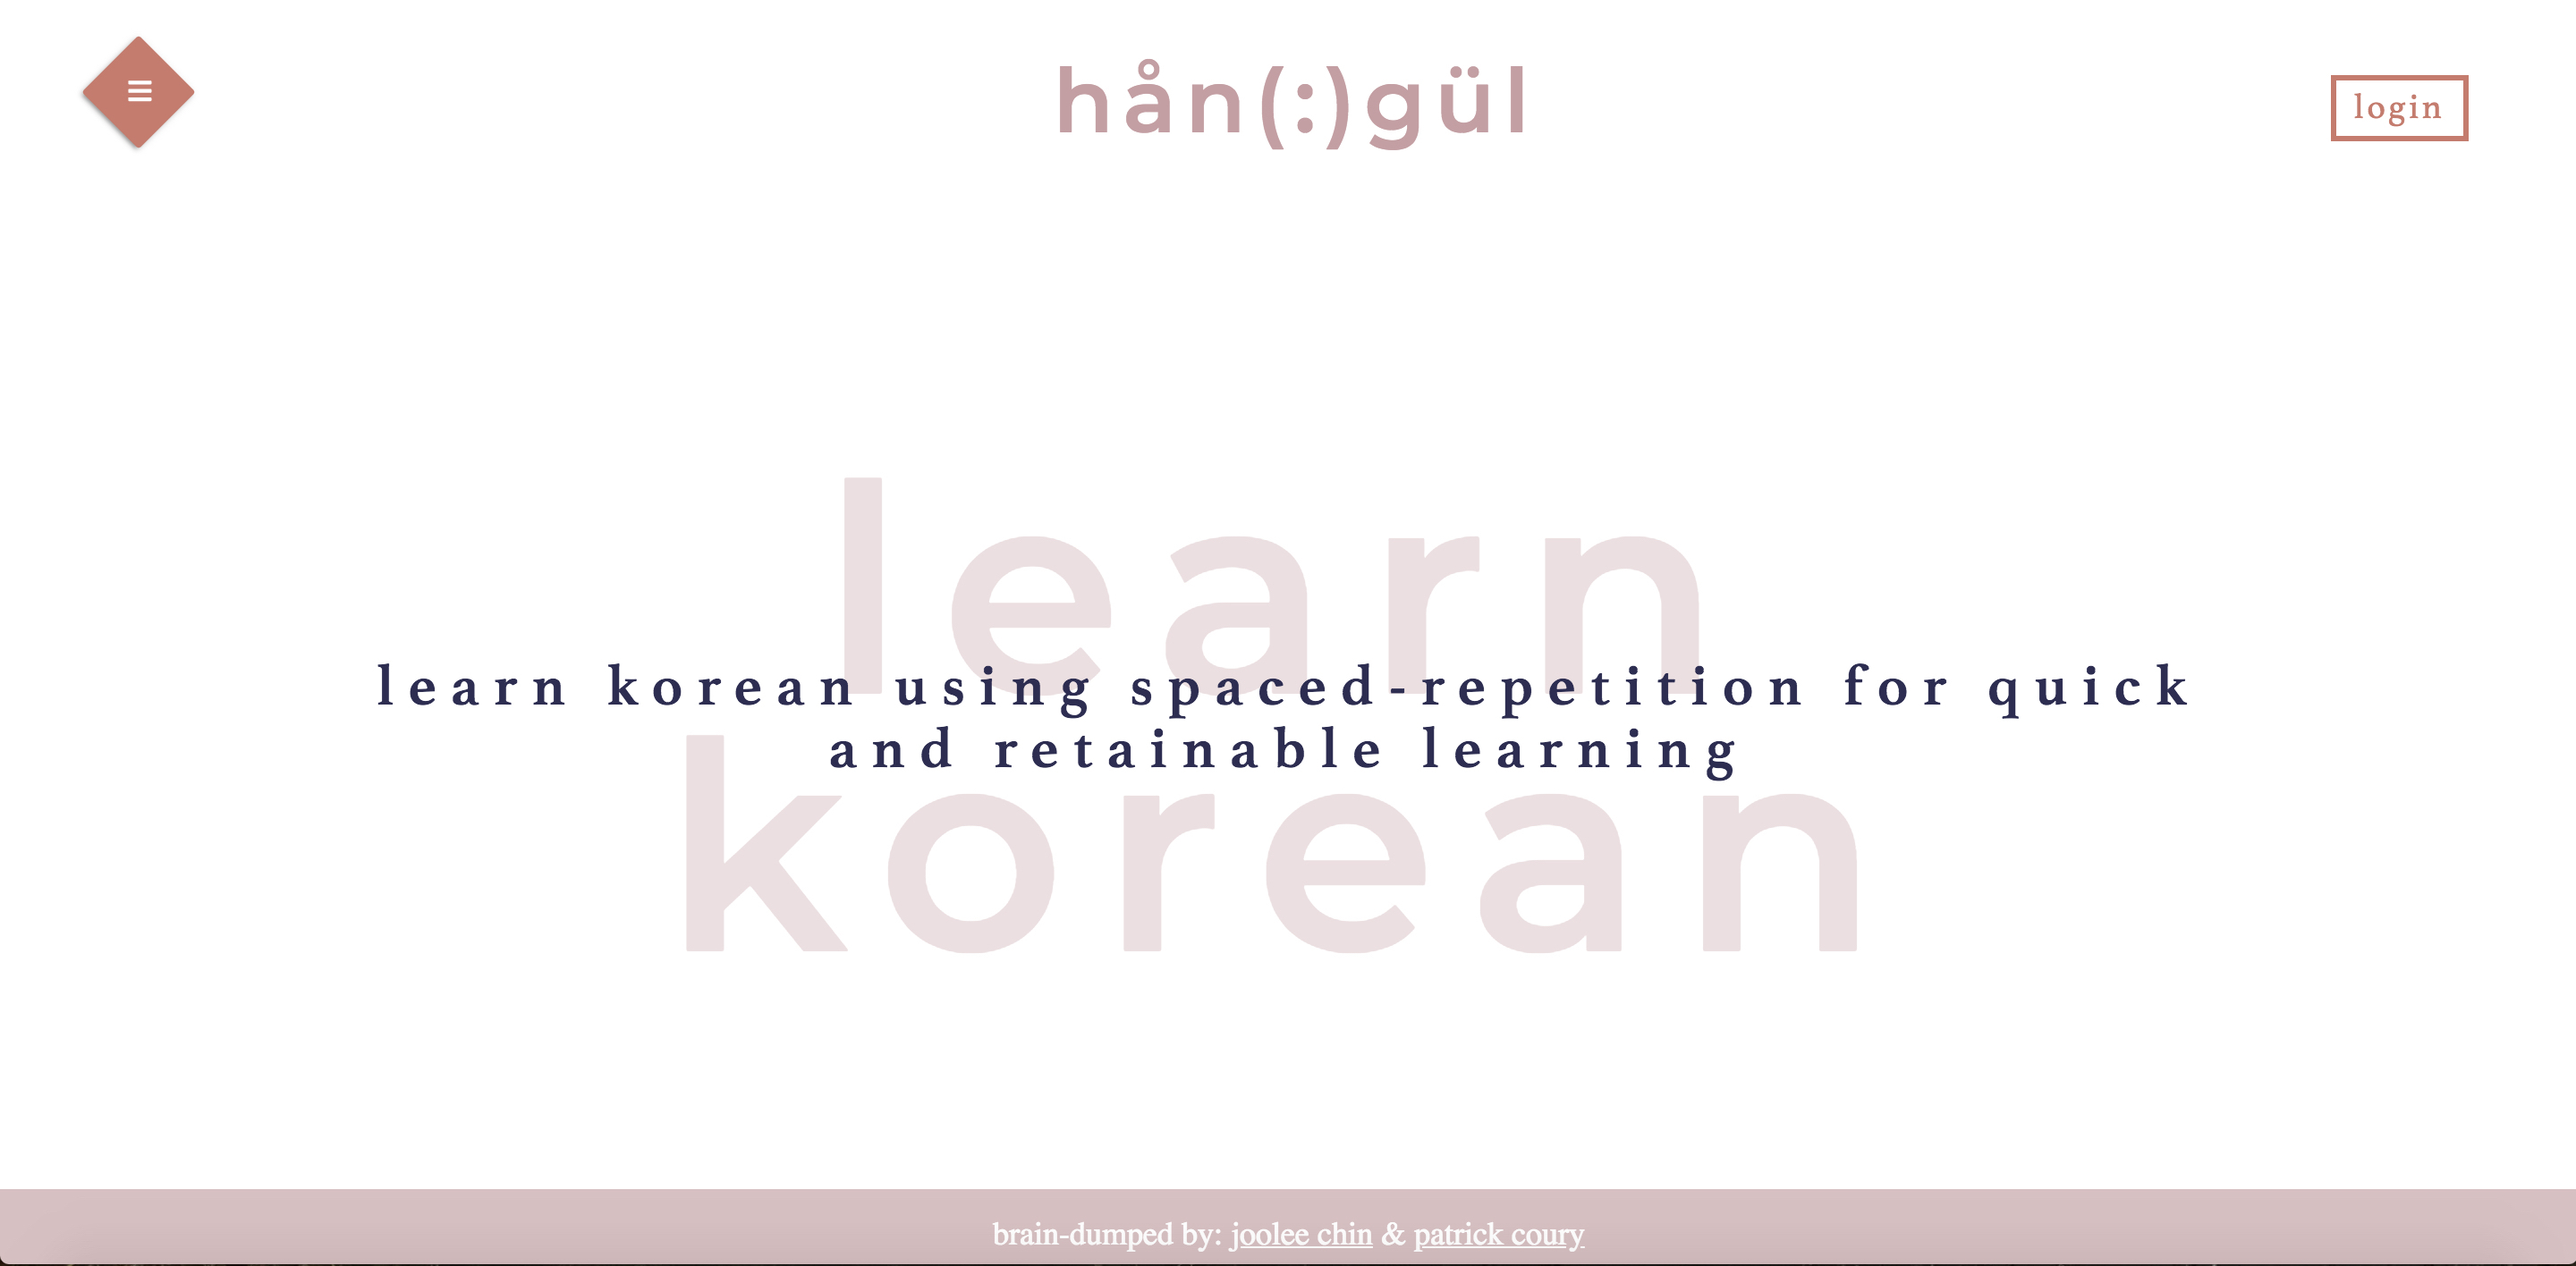
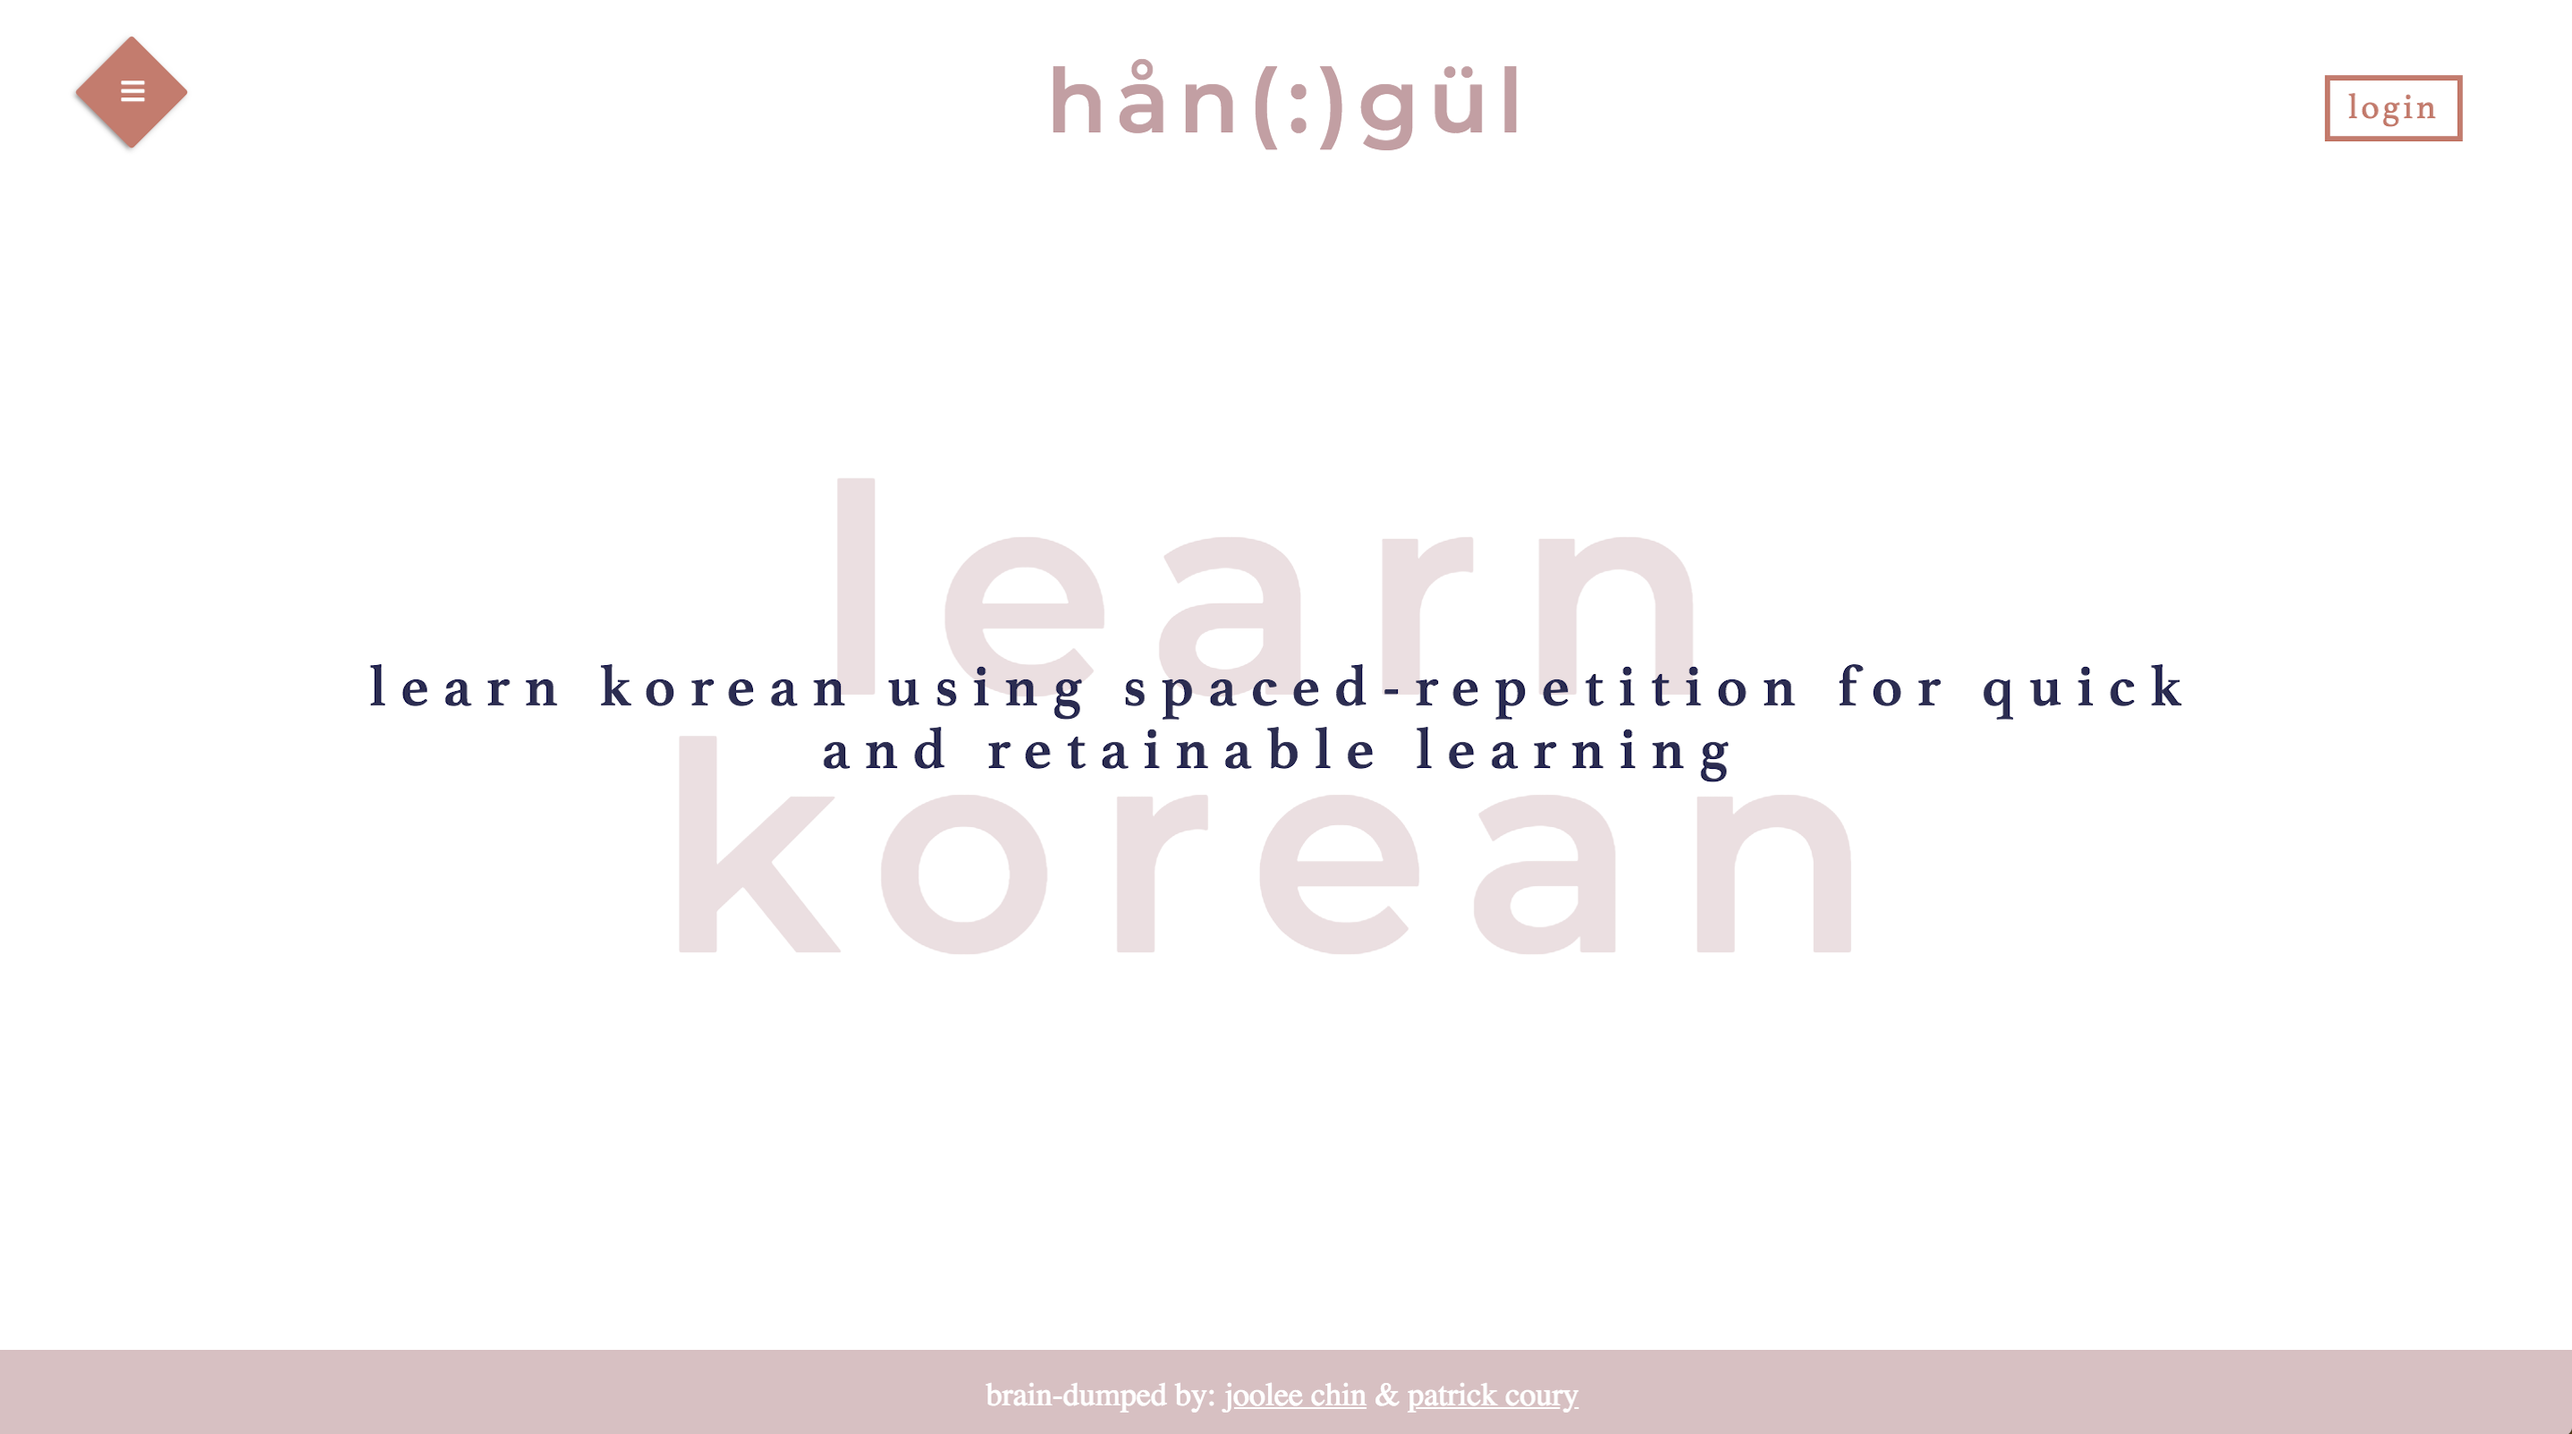
completed resizing photo thumbnail and the projects page

diff --git a/src/app/components/Project.js b/src/app/components/Project.js
@@ -10,39 +10,43 @@ class Project extends Component {
   render() {
     return(
       <div className = "project-box">
-        <h1 className="sectionTitle">PROJECTS</h1>
+        <h1 className="sectionTitle-P">PROJECTS</h1>
         <section>
           <div className="project-gallery">
             <div className="project">
-              <div className="project-thumb">
+              <a href="https://github.com/jooleechin/local-frontend" target="_blank" className="project-thumb dim black b">
                 <img src={local} alt={local}/>
-              </div>
+              </a>
               <div className="project-desc">
-                <span>local</span>
+                <h4>local</h4>
+                <span>developed a mobile-first react web app that creates travel itineraries based off of user input</span>
               </div>
             </div>
             <div className="project">
-              <div className="project-thumb">
+              <a href="https://github.com/jooleechin/frontEnd-Korean" target="_blank"  className="project-thumb dim black b">
                 <img src={hangul} alt={hangul}/>
-              </div>
+              </a>
               <div className="project-desc">
-                <span>hängul</span>
+                <h4>hängul</h4>
+                <span>a react browser application that will teach a user how to read and pronounce basic korean characters</span>
               </div>
             </div>
             <div className="project">
-              <div className="project-thumb">
+              <a href= "https://github.com/jooleechin/cryptoKeeper" target="_blank" className="project-thumb dim black b">
                 <img src={crypto} alt={crypto}/>
-              </div>
+              </a>
               <div className="project-desc">
-                <span>cryptoKeeper</span>
+                <h4>cryptoKeeper</h4>
+                <span>a cryptocurrency management tool to keep track of all your investments</span>
               </div>
             </div>
             <div className="project">
-              <div className="project-thumb">
+              <a href="https://github.com/jooleechin/skincareSearch" target="_blank" className="project-thumb dim black b">
                 <img src={skincare} alt={skincare}/>
-              </div>
+              </a>
               <div className="project-desc">
-                <span>skincare search</span>
+                <h4>skincare search</h4>
+                <span>one-stop website where users can find ingredients of skincare products</span>
               </div>
             </div>
           </div>

diff --git a/src/assests/css/Project.css b/src/assests/css/Project.css
@@ -1,12 +1,14 @@
 .project-box{
   width: 100vw;
-  margin-top: 5%;
-  margin-bottom: 5%;
+  height: auto;
+  padding-top: 5%;
+  padding-bottom: 5%;
   margin-left: auto;
   margin-right: auto;
   position: relative;
+  background-color: #f0f0f0;
 }
-.sectionTitle {
+.sectionTitle-P {
   position: absolute;
   transform: rotate(-90deg);
   transform-origin: left top;
@@ -14,14 +16,55 @@
   letter-spacing: 15px;
   font-family: 'Cabin', sans-serif;
   font-weight: 600;
-  top: 20%;
+  top: 48%;
   left: 5%;
   color: #545E75;
   /* background-color: #d4aeb1; */
   text-shadow: 3px 3px #f9f9f9;
 }
-
+.project-gallery{
+  width: 85%;
+  margin-left: auto;
+  margin-right: auto;
+  display: flex;
+  flex-direction: row;
+  justify-content: space-around;
+  flex-wrap: wrap;
+}
+.project {
+  max-width: 450px;
+  display: flex;
+  flex-direction: column;
+  padding: 20px;
+}
+.project-thumb {
+  /* border: 1px black solid; */
+  width: 450px;
+  /* height: 300px; */
+  display: flex;
+  justify-content: center;
+  align-items: center;
+  overflow: hidden;
+  background-color: blue;
+}
 .project-thumb img {
-  width: 25%;
-  height: 25%;
+  flex-shrink: 0;
+  min-width: 100%;
+}
+.project-desc {
+  font-weight: 600;
+  padding-top: 2%;
+  text-align: left;
+}
+.project-desc h4 {
+  margin: 0px;
+  margin-bottom: 5px;
+  font-family: athelas, georgia, serif;
+  font-size: 1.5em;
+  letter-spacing: 1px;
+}
+.project-desc span {
+  font-family: 'Open Sans', sans-serif;
+  font-weight: 400;
+  letter-spacing: .5px;
 }

diff --git a/src/assests/css/AboutMe.css b/src/assests/css/AboutMe.css
@@ -1,10 +1,12 @@
 .about-box{
   width: 100vw;
-  margin-top: 5%;
-  margin-bottom: 5%;
+  height: auto;
+  padding-top: 5%;
+  padding-bottom: 5%;
   margin-left: auto;
   margin-right: auto;
   position: relative;
+  /* background-color: pink; */
 }
 .sectionTitle {
   position: absolute;
@@ -35,8 +37,8 @@
   justify-content: center; */
   width: 75%;
   height: 60%;
-  background-color: blue;
-  position: relative;
+  /* background-color: blue; */
+  /* position: relative; */
 }
 .about_me div {
   margin: 10px 25px;
@@ -51,8 +53,8 @@
   max-height: auto;
   max-width: 35vw;
   border: 15px #545E75 solid;
-  position: absolute;
-  left: 0%;
+  /* position: absolute;
+  left: 0%; */
 }
 .blurb {
   font-size: .8em;
@@ -62,8 +64,8 @@
   font-family: 'Raleway', sans-serif;
   font-weight: normal;
   background-color: pink;
-  position: absolute;
-  top: 0%;
+  /* position: absolute;
+  top: 0%; */
   right: 10%;
 }
 .tech {

diff --git a/public/index.html b/public/index.html
@@ -7,6 +7,7 @@
     <meta name="theme-color" content="#000000">
     <script src="https://use.fontawesome.com/89516a6b08.js"></script>
     <link href="https://fonts.googleapis.com/css?family=Cabin:400,600|Special+Elite" rel="stylesheet">
+    <link href="https://fonts.googleapis.com/css?family=Open+Sans:400,600,700" rel="stylesheet">
     <link href="https://fonts.googleapis.com/css?family=Raleway" rel="stylesheet">
     <!--
       manifest.json provides metadata used when your web app is added to the

diff --git a/src/App.js b/src/App.js
@@ -5,7 +5,7 @@ import Header from './app/components/Header'
 import Footer from './app/components/Footer'
 import Splashpage from './app/components/Splashpage'
 import AboutMe from './app/components/AboutMe'
-import Project from './app/componenets/Project'
+import Project from './app/components/Project'
 
 class App extends Component {
   render() {

diff --git a/src/assests/css/Splashpage.css b/src/assests/css/Splashpage.css
@@ -24,7 +24,7 @@
   bottom: 25%;
   left: 8%;
   font-family: 'Special Elite', cursive;
-  font-size: 1.8em;
+  font-size: 1.5em;
   letter-spacing: 2px;
 }
 .code {
@@ -33,7 +33,7 @@
   left: 55%;
   text-align: left;
   padding: 20px;
-  font-size: .9em;
+  font-size: 1.0em;
 }
 /* photo stuff */
 /* .photo {
